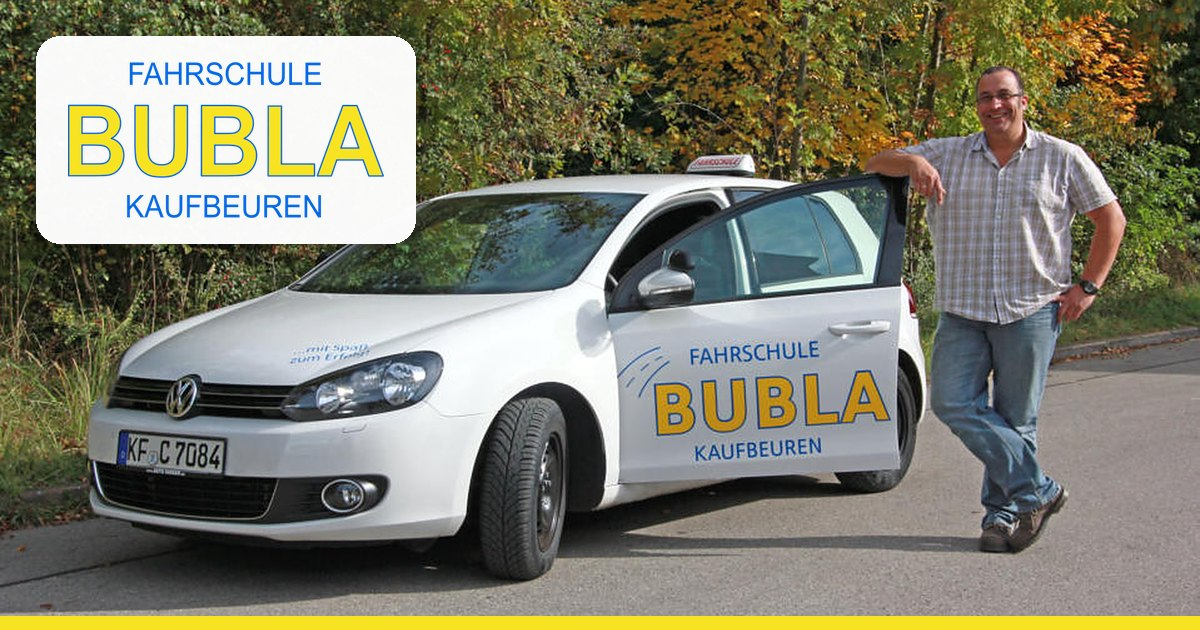
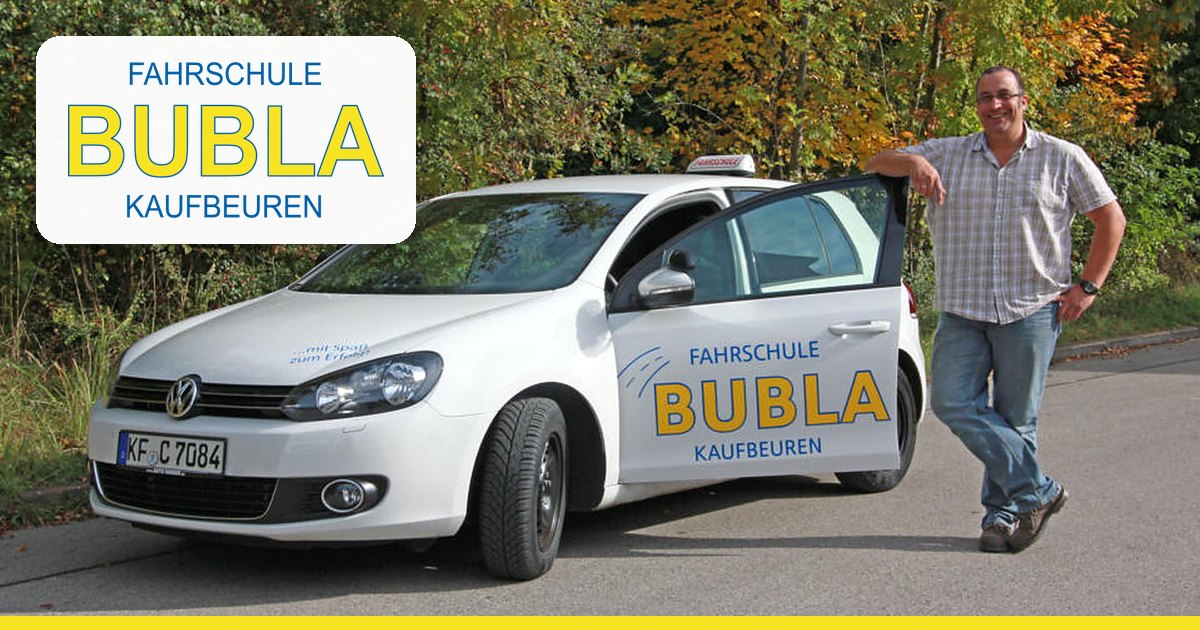
Einheitliches Bubla-Blau #005BA4
- Verlaufs-Blau der Headlines (#0a74f0 → #005ba4) jetzt durchgehend #005ba4
- Leuchtblau #0365e1 (Fokusrahmen, Formularfelder) entfernt
- Logo (SVG + PNG), B-Zeichen, Favicon, Touch-Icon und Vorschaubild im selben Blau

diff --git a/app/app.css b/app/app.css
@@ -12,7 +12,6 @@
 
   /* Markenfarben (Logo + bisheriger Webauftritt) */
   --color-bubla: #005ba4; /* Bubla-Blau – Text, Links, Flächen */
-  --color-bubla-bright: #0365e1; /* Logo-Blau – Leuchtakzente */
   --color-sun: #f8e322; /* Logo-Gelb */
   --color-sun-deep: #e8c900;
   --color-night: #061c33; /* Tiefblau für dunkle Sektionen */
@@ -199,7 +198,7 @@
   }
 
   :focus-visible {
-    outline: 2.5px solid var(--color-bubla-bright);
+    outline: 2.5px solid var(--color-bubla);
     outline-offset: 3px;
     border-radius: 10px;
   }
@@ -307,7 +306,7 @@
 }
 
 @utility grad-blue {
-  background-image: linear-gradient(100deg, #0a74f0 0%, #005ba4 70%);
+  background-image: linear-gradient(#005ba4, #005ba4); /* einheitliches Bubla-Blau */
   -webkit-background-clip: text;
   background-clip: text;
   color: transparent;
@@ -334,7 +333,7 @@
   background-image: linear-gradient(180deg, var(--ink-a) 35%, var(--ink-b) 115%);
 }
 .grad-blue .word {
-  background-image: linear-gradient(100deg, #0a74f0 0%, #005ba4 70%);
+  background-image: linear-gradient(#005ba4, #005ba4); /* einheitliches Bubla-Blau */
 }
 .grad-sun .word {
   background-image: linear-gradient(100deg, #fff27a 0%, #f8e322 45%, #f2c200 100%);

diff --git a/app/routes/anmeldung.tsx b/app/routes/anmeldung.tsx
@@ -21,7 +21,7 @@ export const meta: MetaFunction = () =>
   })
 
 
-const field = "bg-tile focus:ring-bubla-bright w-full rounded-2xl px-4 py-3.5 text-[16px] outline-none ring-1 ring-transparent transition focus:bg-white focus:ring-2"
+const field = "bg-tile focus:ring-bubla w-full rounded-2xl px-4 py-3.5 text-[16px] outline-none ring-1 ring-transparent transition focus:bg-white focus:ring-2"
 const label = "mb-1.5 block text-[14px] font-bold"
 
 export default function Anmeldung() {

diff --git a/app/components/ui/logo.tsx b/app/components/ui/logo.tsx
@@ -1,6 +1,6 @@
 import { cn } from "~/lib/cn"
 
-/** Originales Bubla-Logo als Vektor (Arial wie im Original, Farben #F8E322 / #0365E1) – bleibt in jeder Größe scharf */
+/** Originales Bubla-Logo als Vektor (Arial wie im Original, Farben #F8E322 / Bubla-Blau #005BA4) – bleibt in jeder Größe scharf */
 export function Logo({ className }: { className?: string }) {
   return (
     <img

diff --git a/README.md b/README.md
@@ -91,7 +91,7 @@ SEO je Seite: Titel und Beschreibung (bisherige Werte übernommen und je Seite e
 
 **Echtes Bildmaterial der Fahrschule** (mehr gab es auf der alten Seite nicht – dort waren alle übrigen Bilder ebenfalls Stockfotos):
 
-- `public/images/logo.svg` – Originallogo als Vektor nachgebaut (Arial wie im Original, Gelb `#F8E322`, Blau `#0365E1`); wird auf der Website verwendet. `public/images/logo.png` – Originaldatei (für JSON-LD).
+- `public/images/logo.svg` – Originallogo als Vektor nachgebaut (Arial wie im Original, Gelb `#F8E322`, Blau `#005BA4` – im Original `#0365E1`, auf Wunsch an das Bubla-Blau der Website angeglichen); wird auf der Website verwendet. `public/images/logo.png` – Originaldatei mit demselben Blau (für JSON-LD).
 - `public/images/b-mark.svg`, `public/favicon.svg`, `public/apple-touch-icon.png` – „B“ im Logo-Stil.
 - `public/images/fahrschule/bubla-golf.webp` – Originalfoto (Fahrschul-Golf mit Bubla-Beschriftung und Fahrlehrer), aus der alten Seite, auf 1920 px hochgerechnet. Startseiten-Hero, Team, `public/og-image.jpg` (Vorschaubild beim Teilen, mit Logo).
 - `public/images/stock/` – Fotos von [Pexels](https://www.pexels.com/license/) (kostenlos, auch kommerziell, keine Quellenangabe nötig), als WebP (max. 2400 px). Jederzeit durch eigene Fotos ersetzbar (gleicher Dateiname).
